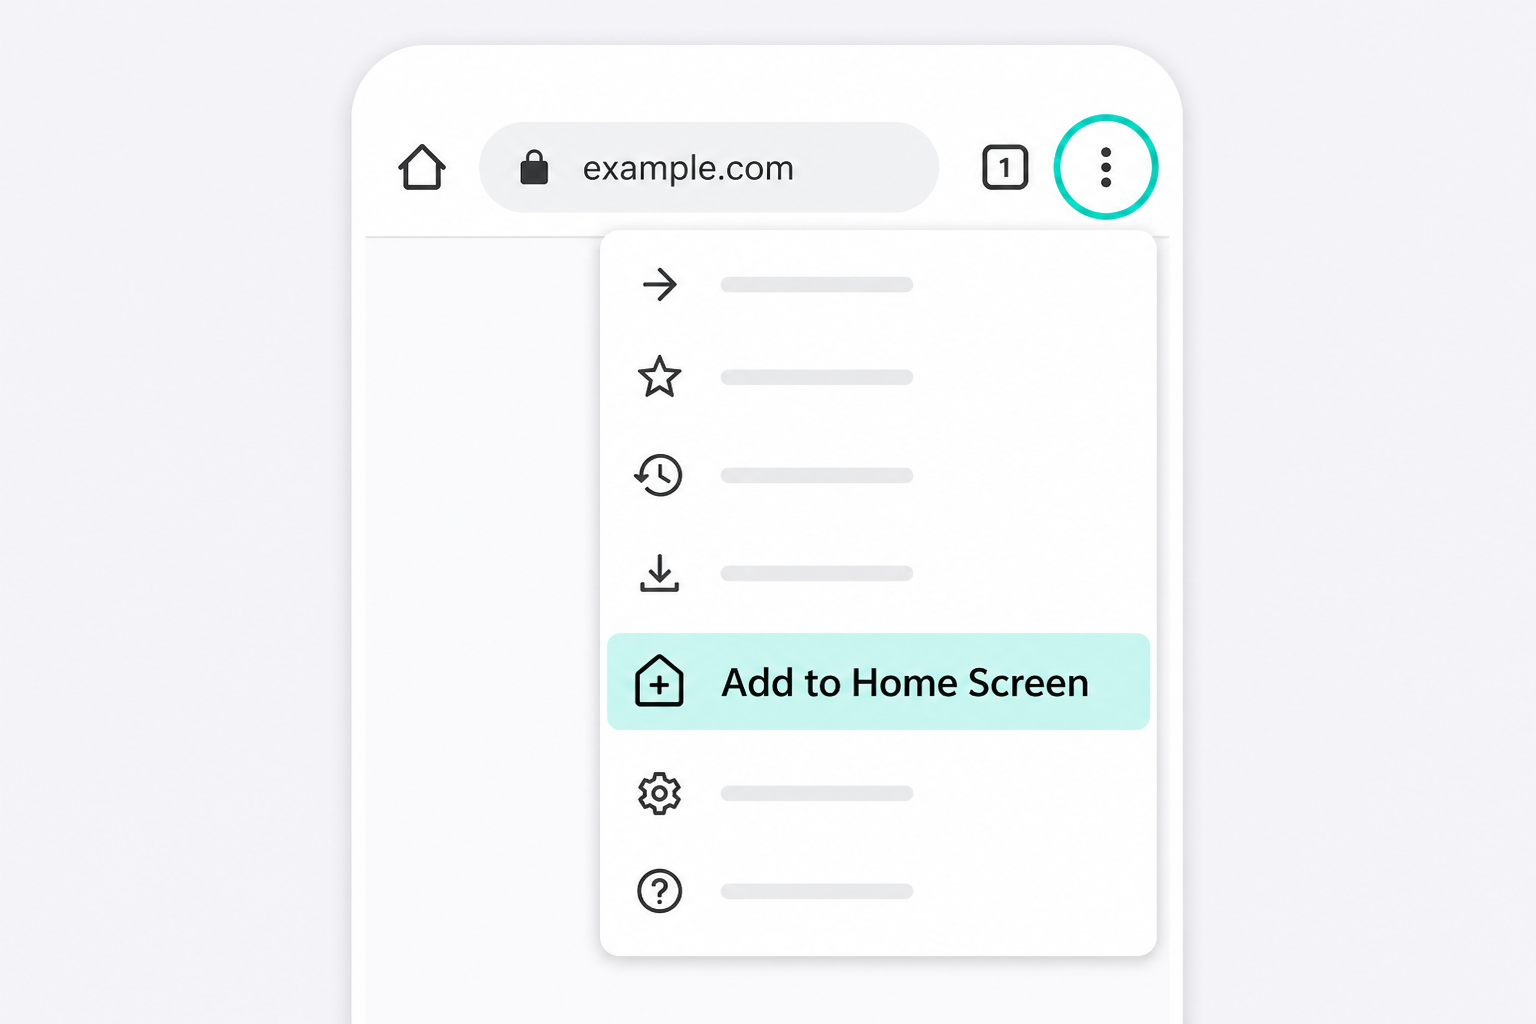
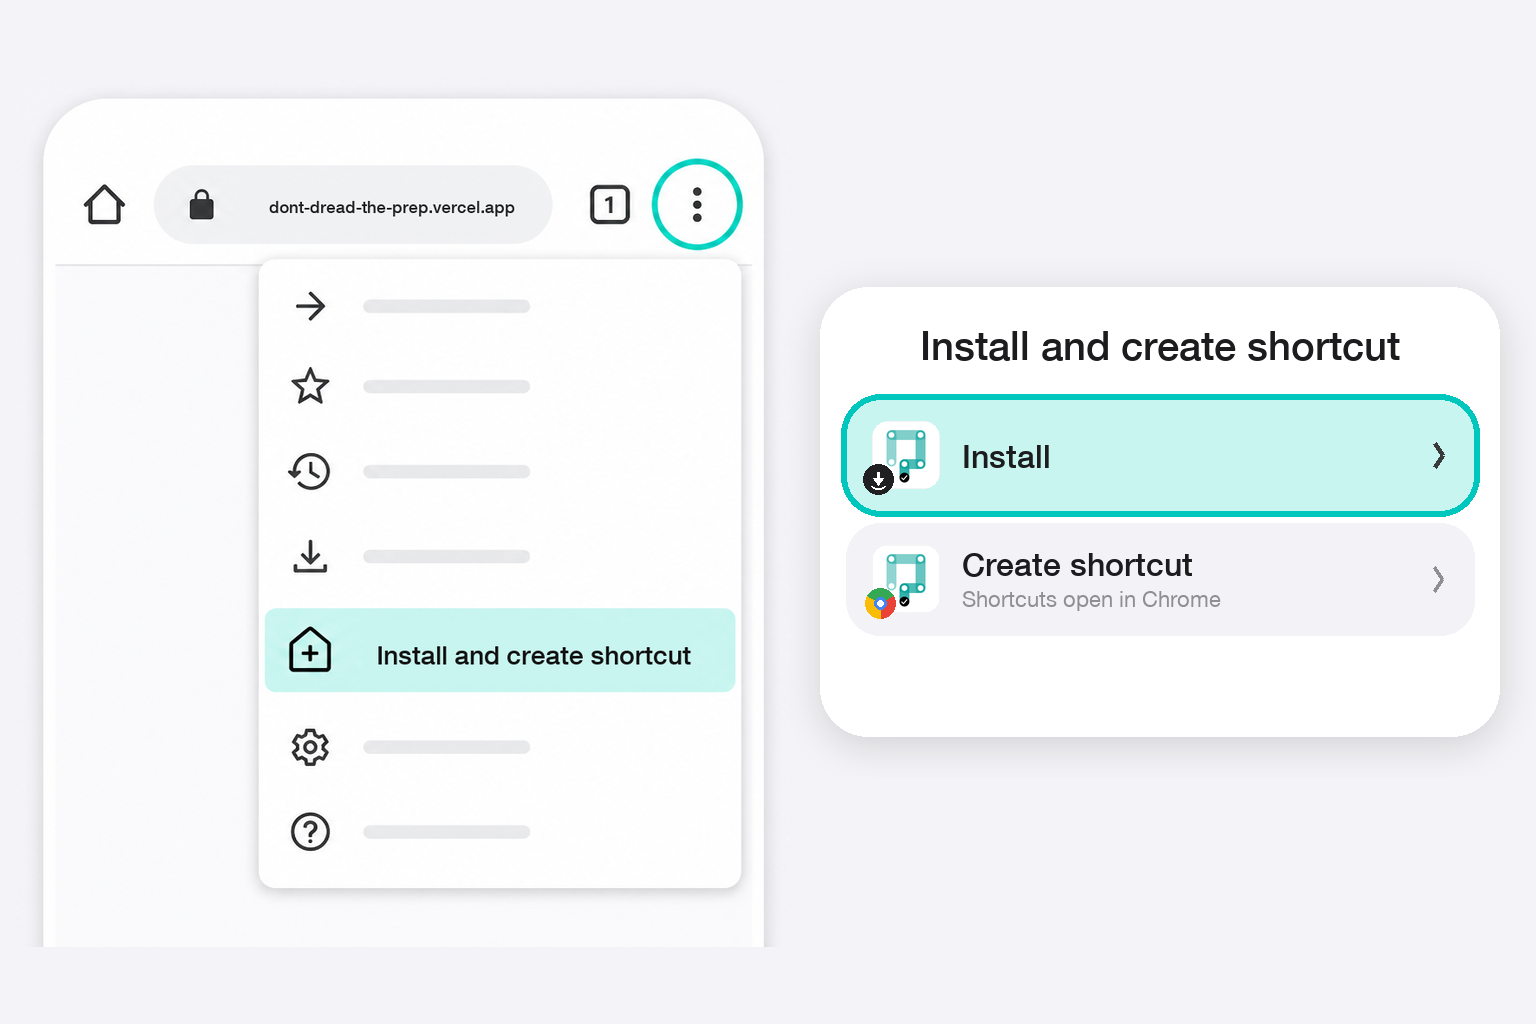
feat: update Android shortcut instructions and assets
- Added a new step for creating shortcuts on Android devices.
- Updated the text for shortcut installation instructions to improve clarity.
- Modified the Android shortcut image asset to reflect the latest design.

diff --git a/frontend/src/i18n/strings.ts b/frontend/src/i18n/strings.ts
@@ -90,7 +90,7 @@ export const EN = {
     'Times and food rules follow your {hospital} sheet, not a generic prep list.',
   'home.shortcut': 'Keep this on your phone',
   'home.shortcutIos': 'Share → Add to Home Screen',
-  'home.shortcutAndroid': 'Menu → Add to Home Screen',
+  'home.shortcutAndroid': 'Menu → Install & create shortcut',
   'home.shortcutOpen': 'See step details',
   'home.shortcutIosTab': 'iPhone',
   'home.shortcutAndroidTab': 'Android',
@@ -103,11 +103,12 @@ export const EN = {
   'home.shortcutIos4': 'Type a name, then tap Add in the top-right corner.',
   'home.shortcutAndroid1': 'Open this page in Chrome.',
   'home.shortcutAndroid2': 'Tap the three dots in the top-right corner.',
-  'home.shortcutAndroid3': 'Tap Add to Home screen or Install.',
-  'home.shortcutAndroid4': 'Change the name if you want, then tap Add or Install.',
+  'home.shortcutAndroid3': 'Tap Install and create shortcut.',
+  'home.shortcutAndroid4': 'Tap Install — not Create shortcut.',
+  'home.shortcutAndroid5': 'Tap Install on the next popup.',
   'home.shortcutGotIt': 'Got it',
   'home.shortcutImgIos': 'Safari Share button and Add to Home Screen',
-  'home.shortcutImgAndroid': 'Chrome menu and Add to Home Screen',
+  'home.shortcutImgAndroid': 'Chrome menu and Install option',
   'tour.next': 'Next',
   'tour.back': 'Back',
   'tour.done': 'Done',

diff --git a/frontend/src/components/ShortcutSheet.tsx b/frontend/src/components/ShortcutSheet.tsx
@@ -20,6 +20,7 @@ const ANDROID_STEPS: StringKey[] = [
   'home.shortcutAndroid2',
   'home.shortcutAndroid3',
   'home.shortcutAndroid4',
+  'home.shortcutAndroid5',
 ]
 
 export function ShortcutSheet({
